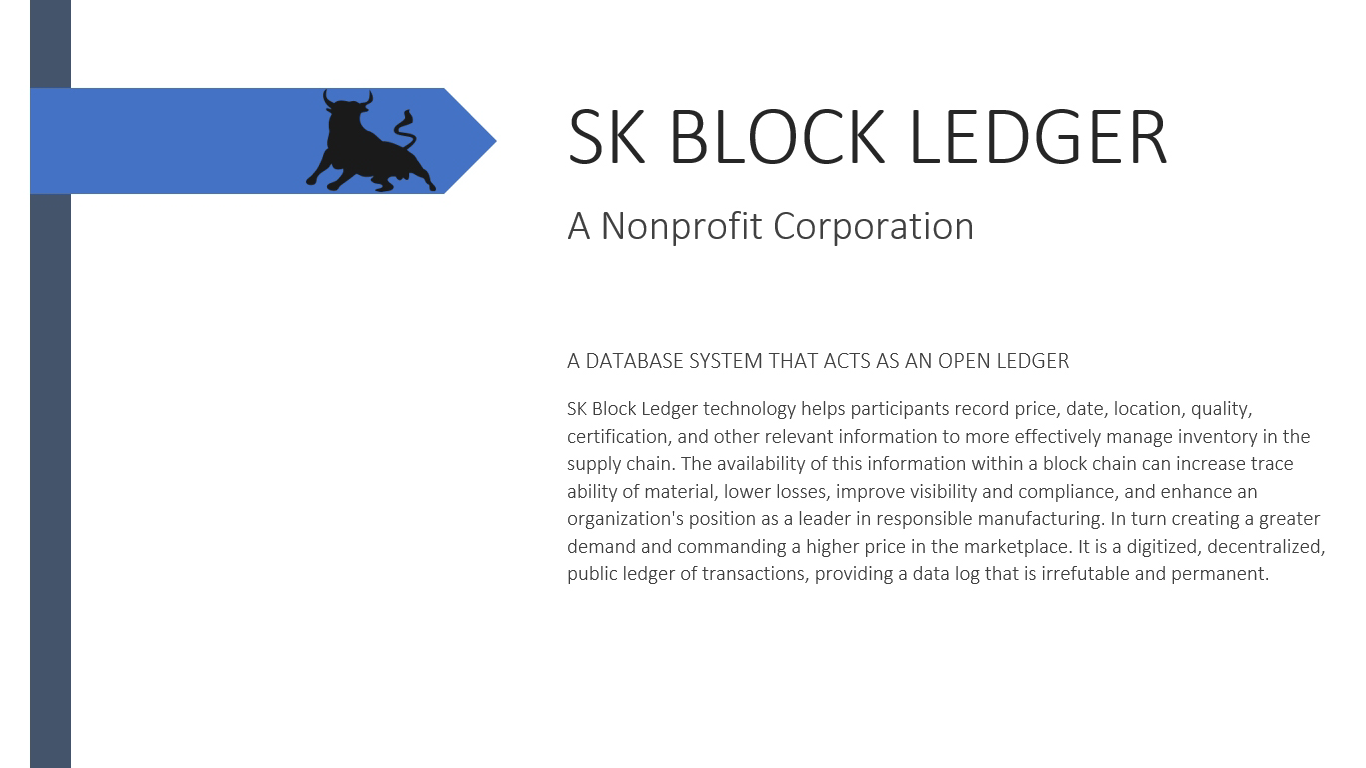
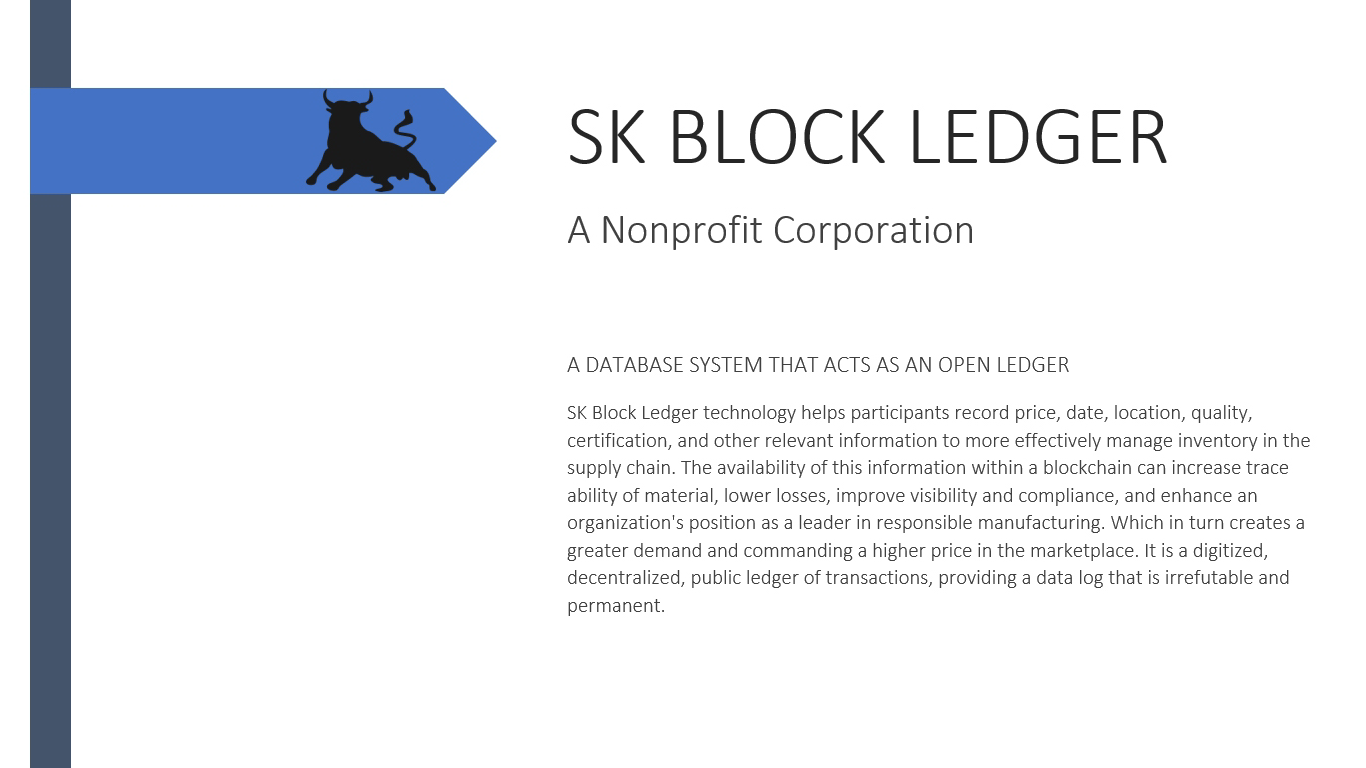
fix grammar

diff --git a/caseStudies/index.html b/caseStudies/index.html
@@ -71,7 +71,7 @@
         <div class="row">
             <div class="col-lg-8 col-lg-offset-2 text-left">
                 <div class="features-box" class="text-muted">
-				    <p><b>SK BLOCK LEDGER S A DISTRIBUTED DATABASE SYSTEM THAT ACTS AS AN OPEN LEDGER<br><br>The SK blockchain is a digitized, decentralized, public ledger of transactions. SK provides a supply blockchain technology that provides provenance that is irrefutable and permanent.<br><br>What the SK Block Chain Ledger will do,<br>•	Drive greater automation: greatly reduce bureaucracy and paperwork.<br>• Create greater connectivity across supply networks<br>• More automated, leaner and more error-free flow of goods can also speed up delivery as well<br>• Alleviate friction in trade between parties<br>• Improve transparency and traceability in supply chains<br>• Create a culture of collaboration<br>• Manage expectations though transparency<br>• Manage expectations though transparency<br><br>SK Block Ledger for Wine & Olive Oil<br><br>Implementation of Wine & Olive Oil Supply Chain using SK technology. This ledger showcases the journey of wine and olive oil on the blockchain. The supply chain is the sequence of activities and process to bring wine and olive oil from farms to processed wine and olive oil in markets. Currently, Wine and olive oil trade mostly relies on fax machines and emails, decades old technology, to send and receive contracts across the globe, resulting in slower and error-prone paperwork. Blockchain can solve this by providing an immutable and verifiable data source. By implementing a block chain ledger this addresses the issue of storing critical data necessary at different stages of the supply chain and making it verifiable by all stakeholders in the supply chain.<br><br>Help participants record price, date, location, quality, certification, and other relevant information to more effectively manage the supply chain. The availability of this information within blockchain can increase traceability of material supply chain, lower losses due to errors, improve visibility and compliance over contract manufacturing, and enhance an organization's position as a leader in responsible manufacturing. Creating in turn a greater demand and commanding a higher price in the marketplace. Using the app, all parties involved can follow the journey of the oil and know they are getting what they paid for, where it is, and this record is permanent.<br><br>The olive oil and wine market are led by price wars and seller’s motivations are going toward low-quality bulk olive oils.  SK ledger access to safety, quality and origin information by the consumer, the information asymmetry [will] rapidly decrease in favor of good quality tips the scale towards quality products commanding a higher price in the market, creating brand awareness and giving the buyer/consumer what they want, better quality with transparency.<br><br>Diagrams 1.1, 1.2 and 1.3  show the ledger at work. This can be applied to medical products, agricultural products, manufactured goods, and the list is limitless.</b></p>
+				    <p><b>SK BLOCK LEDGER IS A DISTRIBUTED DATABASE SYSTEM THAT ACTS AS AN OPEN LEDGER<br><br>The SK blockchain is a digitized, decentralized, public ledger of transactions. SK provides a supply blockchain technology that provides provenance that is irrefutable and permanent.<br><br>What the SK Block Chain Ledger will do<br>• Drive greater automation: greatly reduce bureaucracy and paperwork<br>• Create greater connectivity across supply networks<br>• More automated, leaner and more error-free flow of goods can also speed up delivery as well<br>• Alleviate friction in trade between parties<br>• Improve transparency and traceability in supply chains<br>• Create a culture of collaboration<br>• Manage expectations through transparency<br>• Manage expectations through transparency<br><br>SK Block Ledger for Wine & Olive Oil<br><br>Implementation of Wine & Olive Oil Supply Chain using SK technology. This ledger showcases the journey of wine and olive oil on the blockchain. The supply chain is the sequence of activities and process to bring wine and olive oil from farms to processed wine and olive oil in markets. Currently, wine and olive oil trade mostly relies on fax machines and emails, decades old technology, to send and receive contracts across the globe, resulting in slower and error-prone paperwork. Blockchain can solve this by providing an immutable and verifiable data source. Implementing a block chain ledger this addresses the issue of storing critical data necessary at different stages of the supply chain and making it verifiable by all stakeholders in the supply chain.<br><br>Help participants record price, date, location, quality, certification, and other relevant information to more effectively manage the supply chain. The availability of this information within blockchain can increase traceability of material supply chain, lower losses due to errors, improve visibility and compliance over contract manufacturing, and enhance an organization's position as a leader in responsible manufacturing. Creating in turn a greater demand and commanding a higher price in the marketplace. Using the app, all parties involved can follow the journey of the oil and know they are getting what they paid for and where it is. This record is permanent.<br><br>The olive oil and wine market are led by price wars and seller’s motivations are going toward low-quality bulk olive oils.  SK ledger access to safety, quality and origin information by the consumer, the information asymmetry [will] rapidly decrease in favor of good quality tips the scale towards quality products commanding a higher price in the market, creating brand awareness and giving the buyer/consumer what they want, better quality with transparency.<br><br>Diagrams 1.1, 1.2 and 1.3  show the ledger at work. This can be applied to medical products, agricultural products, and manufactured goods. The list is limitless.</b></p>
                 </div>
 				<br>
 			    <div class="col-md-12 col-sm-12 col-xs-12 text-center">

diff --git a/index.html b/index.html
@@ -82,7 +82,7 @@
                     </div>
                     <div class="intro-content">
                         <h5><b>INCREASE PROFIT</b></h5>
-                        <p><b>Your company will improve profitability, manage inventory better, increase growth, and position itself for increased sales. We will get you there. Stand apart from the competition, be the hero to your partners, be the solution.</b></p>
+                        <p><b>Your company will improve profitability, manage inventory better, increase growth, and position itself for increased sales. We will get you there. Stand apart from the competition. Be the hero to your partners. Be the solution.</b></p>
                     </div>
                 </div>
                 <div class="col-md-4 intro-feature">
@@ -91,7 +91,7 @@
                     </div>
                     <div class="intro-content">
                         <h5><b>IMPROVE YOUR BUSINESS</b></h5>
-                        <p><b>Simplify and centralize your supply chain operations with block  supply chain. Operations are easier, mistakes are eliminated, save time, save money focus on driving revenue. SK Block Ledger makes it happen.</b></p>
+                        <p><b>Simplify and centralize your supply chain operations with block  supply chain. Operations are easier, mistakes are eliminated, save time, save money, and focus on driving revenue. SK Block Ledger makes it happen.</b></p>
                     </div>
                 </div>
                 <div class="col-md-4 intro-feature">
@@ -100,7 +100,7 @@
                     </div>
                     <div class="intro-content last">
                         <h5><b>COMMITMENT TO EXCELLENCE</b></h5>
-                        <p><b>SK Block Ledger Ltd. is fully committed to making sure all stakeholders win. Our process allows us to develop a technology solution to improve the overall business model and allow the company to enhance profits. There is no cutting corners to excellence, we cover every base with superior client support.</b></p>
+                        <p><b>SK Block Ledger Ltd. is fully committed to making sure all stakeholders win. Our process allows us to develop a technology solution to improve the overall business model and allow the company to enhance profits. There is no cutting corners to excellence. We cover every base with superior client support.</b></p>
                     </div>
                 </div>
             </div>
@@ -112,7 +112,7 @@
                 <div class="col-md-12">
                     <div class="feature-list">
                         <h3><b>Benefits</b></h3>
-                        <p>• A robust system design for payments related to products and services by both end users and producers.<br>• A solution that can address the leakage, or misappropriation of product integrity.<br>• A system that can efficiently track all the elements of product supply chain right from producers and manufacturers directly to the consumers.<br>• A platform that preserves the integrity of the product supply chain and addresses poor compliance which often leads to price wars and fines.<br>• Find innovative and effective ways to track, report, and share information with ever-increasing increased regulatory pressure.</p>
+                        <p>• A robust system design for payments related to products and services by both end users and producers<br>• A solution that can address the leakage, or misappropriation of product integrity<br>• A system that can efficiently track all the elements of product supply chain right from producers and manufacturers directly to the consumers<br>• A platform that preserves the integrity of the product supply chain and addresses poor compliance which often leads to price wars and fines<br>• Find innovative and effective ways to track, report, and share information with ever-increasing regulatory pressure</p>
 					</div>
                 </div>
             </div>
@@ -123,7 +123,7 @@
             <div class="row">
                 <div class="col-md-12">
                         <h3><b>Features</b></h3>
-                        <p><b>• Reducing supply chain barriers.<br>• Adapt skillfully to regulatory changes in serialization and accelerate regulatory checks.<br>• A signiﬁcant brand value enhancement for manufacturers, and producers.<br>• Streamlined supply chains which facilities to national and international standards.<br>• Signiﬁcant oversight and control of products.<br>• Ability to make prompt decisions and update inventory on a continuous basis.<br>• A system which promotes trust, authenticity, genuineness, data integrity and accountability.<br>• Increase Profitability.<br>• Knockout Competition with the Technology Edge.</b></p>
+                        <p><b>• Reducing supply chain barriers<br>• Adapt skillfully to regulatory changes in serialization and accelerate regulatory checks<br>• A signiﬁcant brand value enhancement for manufacturers and producers<br>• Streamlined supply chains which facilities to national and international standards<br>• Signiﬁcant oversight and control of products<br>• Ability to make prompt decisions and update inventory on a continuous basis<br>• A system which promotes trust, authenticity, genuineness, data integrity and accountability<br>• Increase profitability<br>• Knockout competition with the technology edge</b></p>
                 </div>
             </div>
         </div>

diff --git a/aboutUs/index.html b/aboutUs/index.html
@@ -76,7 +76,7 @@
         <div class="row">
             <div class="col-lg-8 col-lg-offset-2 text-left">
                 <div class="features-box" class="text-muted">
-				     <p><b>Our founders started SK BLOCK LEDGER Limited because we see the need to bring to the 21st century into a supply side chain system that is decades old and not efficient. Coupled with the lack of transparency and commitment to client service in the block chain field, we stepped in to not only fill the gap but become the standard. Our management team core background is sales and customer service.<br><br>That's why we are CUSTOMER FOCUSED EACH AND EVERY DAY<br><br>we’ve put the right processes, people and training in place to ensure we remain focused on great service internally between departments as well as externally to our customers. and suppliers. From our technology operational teams, to our sales, telesales and all of our head office teams – we all understand the importance of great service.<br><br>Each meeting begins and ends with the client focus,we hold meetings in our network to bring together key people from field operations, sales, and technology operations to seek continuous improvement by reviewing the previous day’s performance as well as feedback from our clients.<br><br>We are committed to excellence, we are client focused and client driven.</b></p>
+				     <p><b>Our founders started SK BLOCK LEDGER Limited because we saw the need to bring to the 21st century into a supply side chain system that is decades old and not efficient. Coupled with the lack of transparency and commitment to client service in the block chain field, we stepped in to not only fill the gap but become the standard. Our management team core background is sales and customer service.<br><br>That's why we are CUSTOMER FOCUSED EACH AND EVERY DAY<br><br>We’ve put the right processes, people and training in place to ensure focuse on great service internally between departments, as well as externally to our customers. and suppliers. From our technology operational teams, to our sales, telesales and all of our head office teams – we understand the importance of great service.<br><br>Each meeting begins and ends with the client focus. We hold meetings in our network to bring together key people from field operations, sales, and technology operations to seek continuous improvement by reviewing the previous day’s performance as well as feedback from our clients.<br><br>We are committed to excellence. We are client-focused and client-driven.</b></p>
                 </div>
             </div>
 		</div>

diff --git a/getStarted/index.html b/getStarted/index.html
@@ -61,7 +61,7 @@
     <div class="container">
         <div class="row no-gutter">
             <div class="col-lg-12 text-center">
-               <h3 class="section-heading">Were ready to lead you into the future.</h3>
+               <h3 class="section-heading">We're ready to lead you into the future.</h3>
                <hr class="primary">
             </div>
         </div>
@@ -71,7 +71,7 @@
         <div class="row">
             <div class="col-lg-8 col-lg-offset-2 text-center">
                 <div class="features-box" class="text-muted">
-				    <p><b>Expedited setup and custom development services.<br> Request our questionnaire package for help launching and customizing your solution.We take client support seriously, we will assign a dedicated professional to handling your account from day one, they will be a member of your team. Dedicated to success, where here when you need us. We want to be part of your team, we want your business.</b></p>
+				    <p><b>Expedited setup and custom development services<br> Request our questionnaire package for help launching and customizing your solution. We take client support seriously. We will assign a dedicated professional to handling your account from day one. We are dedicated to your success. We are here when you need us. We want to be a part of your team. We want your business.</b></p>
                 </div>
                 <div class="col-lg-12 text-center">
                     <h5 class="section-heading">Contact us for more information:</h5>
